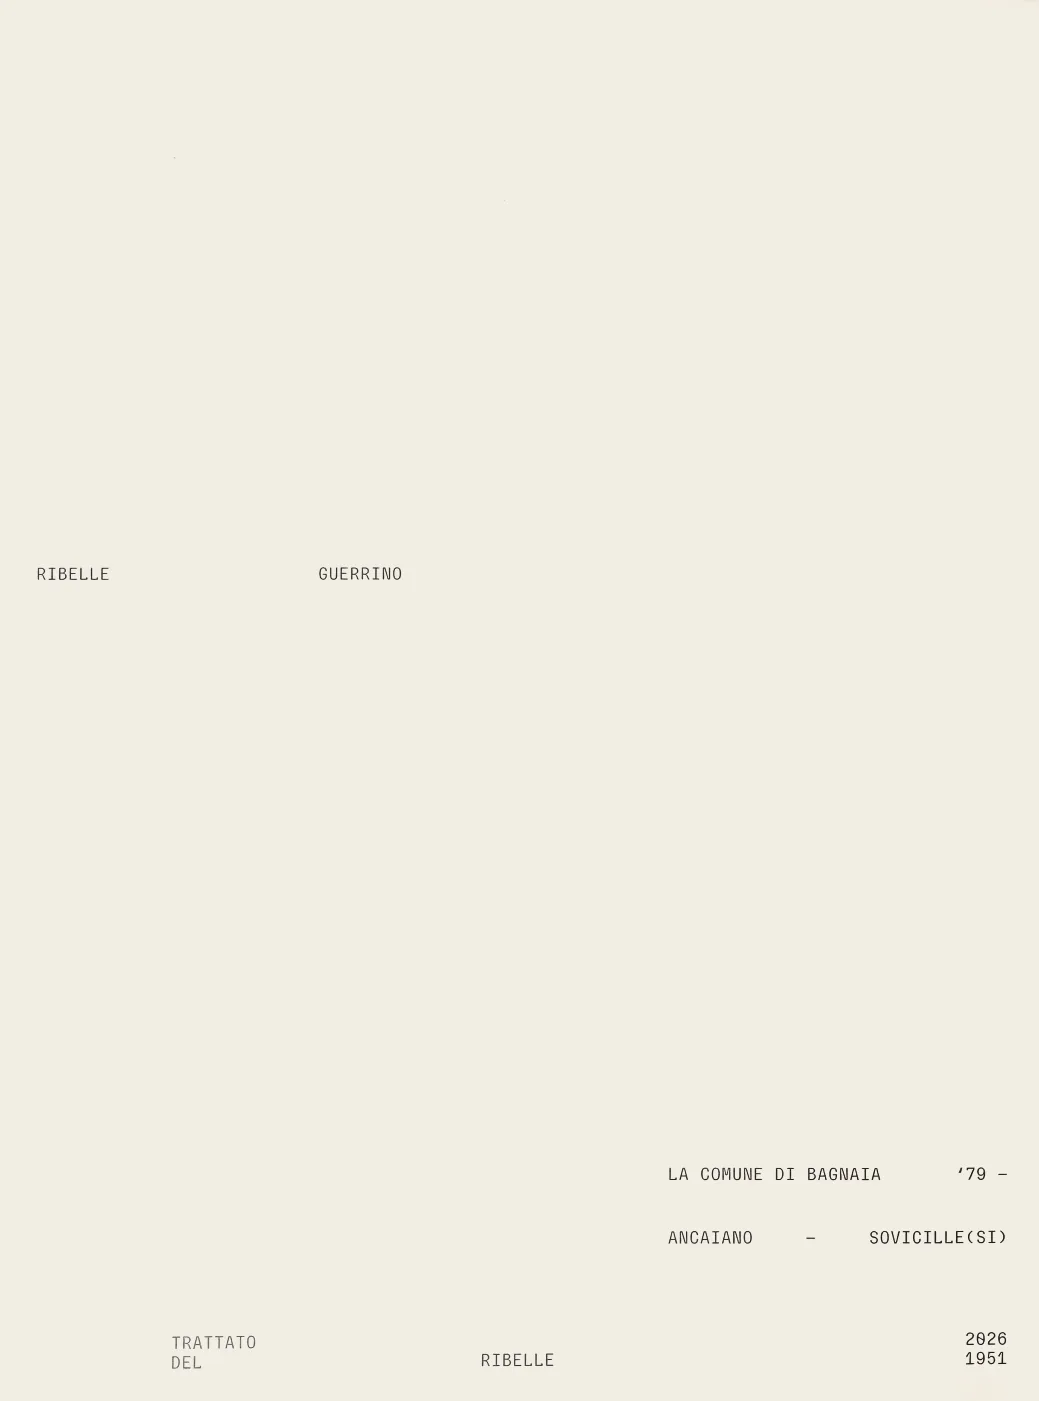
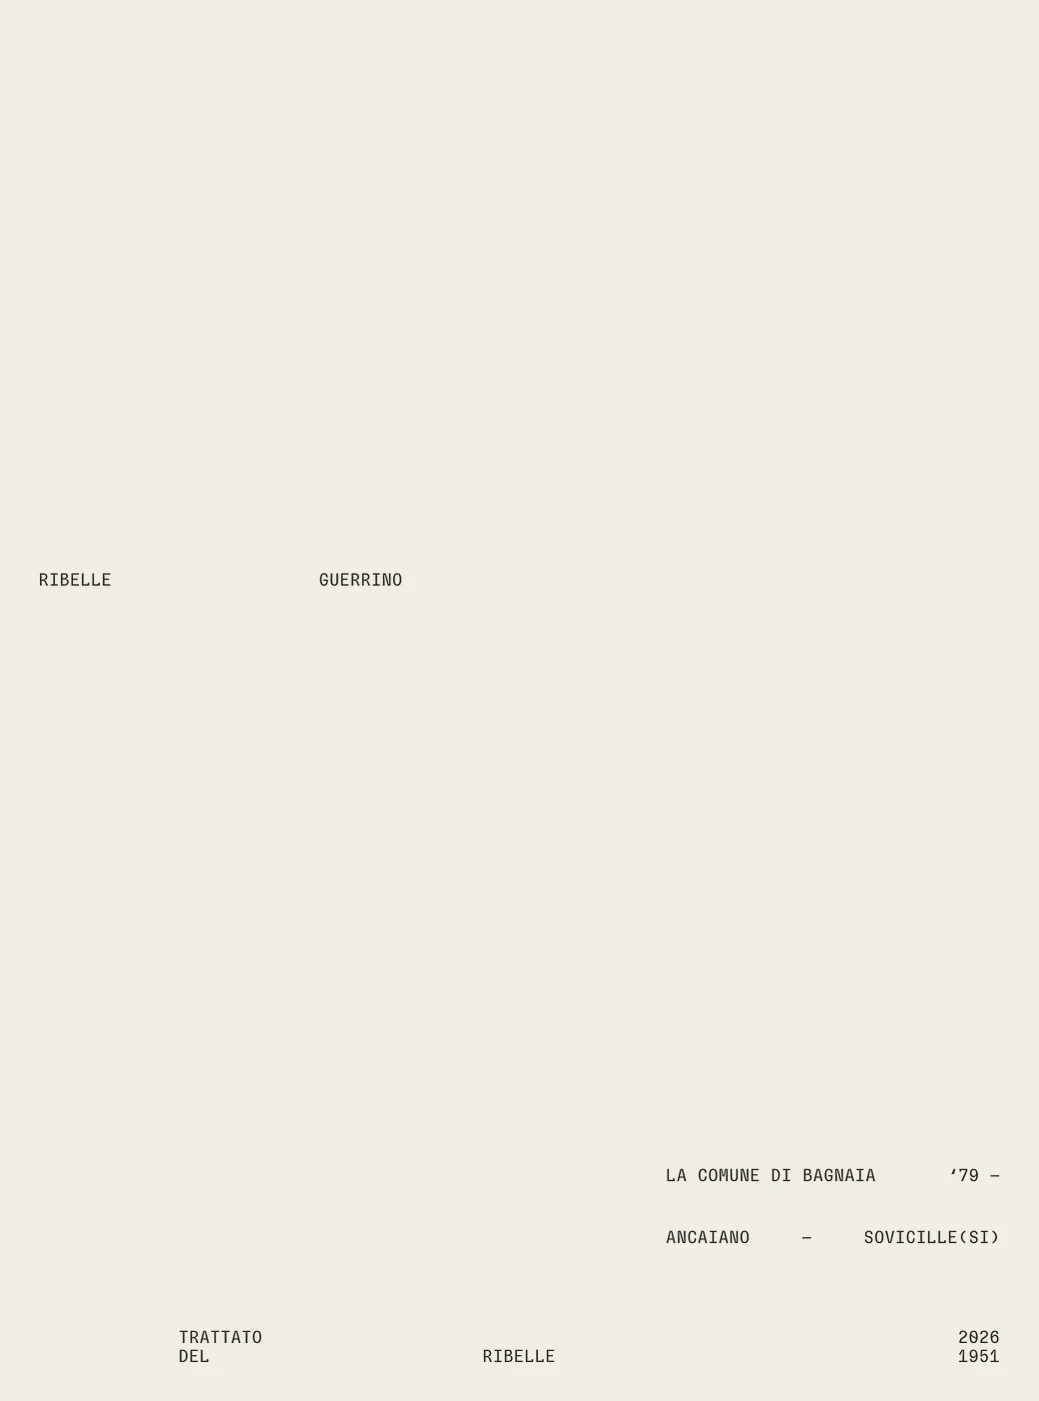
Trattato 3D: copertine dai PDF originali, catalogo con copertina avvolgente e cucitura in piega, volumi più distanti, ombra della pagina continua
Claude-Session: https://claude.ai/code/session_01EApmSPsn6NNqRi4moP4oVx

diff --git a/js/libro3d.js b/js/libro3d.js
@@ -24,7 +24,7 @@
   sun.position.set(-2.2, 6, 3.2); sun.castShadow = true;
   sun.shadow.mapSize.set(2048, 2048);
   var sc = sun.shadow.camera; sc.left = -6; sc.right = 6; sc.top = 6; sc.bottom = -6; sc.near = 1; sc.far = 16;
-  sun.shadow.bias = -0.0004; sun.shadow.radius = 6;
+  sun.shadow.bias = -0.0003; sun.shadow.normalBias = 0.004; sun.shadow.radius = 6;
   scene.add(sun);
   var fill = new T3.DirectionalLight(0xffffff, 0.12); fill.position.set(3, 2, -2); scene.add(fill);
   var ground = new T3.Mesh(new T3.PlaneGeometry(40, 40), new T3.ShadowMaterial({ opacity: 0.1, depthWrite: false }));
@@ -49,10 +49,10 @@
 
   /* ---------- un volume ---------- */
   function Book(cfg) {
-    var me = this;
+    var me = this, W = cfg.w || 2.30, H = cfg.h || 3.10;
     var NP = cfg.pages, NL = NP / 2 + 1, LEAF = cfg.leaf, COV = cfg.cov, BLOCK = (NL - 1) * LEAF, SIGS = cfg.sigs;
     var PAPER = lin(cfg.paper), EDGE = lin(cfg.edge), THREAD = lin(cfg.thread);
-    this.cfg = cfg; this.T = BLOCK + 2 * COV; this.NL = NL;
+    this.cfg = cfg; this.T = BLOCK + 2 * COV; this.NL = NL; this.W = W; this.H = H;
     this.root = new T3.Group(); this.pivot = new T3.Group(); this.geo = new T3.Group();
     this.root.add(this.pivot); this.pivot.add(this.geo);
     var book = this.geo;
@@ -136,6 +136,11 @@
     }
     (function () {
       var m = new T3.MeshLambertMaterial({ color: EDGE }), bands = [{ y: COV / 2 + 0.0004, r: COV / 2 + 0.0006 }], sh = BLOCK / SIGS;
+      if (cfg.wrap) {                                  // copertina avvolgente: da chiuso il dorso è la piega liscia della copertina
+        var cm = new T3.MeshLambertMaterial({ color: PAPER });
+        var tube = new T3.Mesh(halfTube((BLOCK + 2 * COV) / 2 + 0.0008, (BLOCK + 2 * COV) / 2), cm); tube.castShadow = true; spine.add(tube);
+        return;
+      }
       for (var s = 0; s < SIGS; s++) bands.push({ y: COV + sh * (s + 0.5), r: sh / 2 });
       bands.push({ y: COV + BLOCK + COV / 2 - 0.0004, r: COV / 2 + 0.0006 });
       bands.forEach(function (b) { var mm = new T3.Mesh(halfTube(b.r, b.y), m); mm.castShadow = true; spine.add(mm); });
@@ -146,6 +151,28 @@
         spine.add(new T3.Mesh(new T3.TubeGeometry(new T3.CatmullRomCurve3(pts), bands.length * 6, 0.0024, 6, false), tm));
       }
     })();
+    /* catalogo: con la copertina aperta, nella piega si vede il dorso cucito del blocco */
+    var sew = null;
+    if (cfg.wrap) {
+      var c = document.createElement('canvas'); c.width = 128; c.height = 1024;
+      var g2 = c.getContext('2d'), cw = 128 / SIGS;
+      for (var i = 0; i < SIGS; i++) {
+        var gr = g2.createLinearGradient(i * cw, 0, (i + 1) * cw, 0);
+        gr.addColorStop(0, '#d9d7d1'); gr.addColorStop(0.5, '#f7f6f2'); gr.addColorStop(1, '#cfccc5');
+        g2.fillStyle = gr; g2.fillRect(i * cw, 0, cw, 1024);
+      }
+      g2.strokeStyle = '#8f8b83'; g2.lineWidth = 2.2;
+      for (var k = 0; k < cfg.stations; k++) {
+        var y = 1024 * (0.06 + 0.88 * k / (cfg.stations - 1));
+        g2.beginPath();
+        for (var i2 = 0; i2 <= SIGS; i2++) { var x2 = i2 * cw, yy = y + (i2 % 2 ? 7 : -7); if (i2) g2.lineTo(x2, yy); else g2.moveTo(x2, yy); }
+        g2.stroke();
+        g2.fillStyle = '#a9a59d'; g2.fillRect(cw * 0.5 - 3, y - 9, 6, 18); g2.fillRect(128 - cw * 0.5 - 3, y - 9, 6, 18);
+      }
+      var st = new T3.CanvasTexture(c); st.encoding = T3.sRGBEncoding; st.anisotropy = maxAniso;
+      sew = new T3.Mesh(new T3.PlaneGeometry(0.075, H * 0.985), new T3.MeshLambertMaterial({ map: st }));
+      sew.rotation.x = -Math.PI / 2; sew.receiveShadow = true; sew.visible = false; book.add(sew);
+    }
 
     /* il foglio che gira */
     var SX = 46, SZ = 6, leafGeo = new T3.BufferGeometry();
@@ -160,7 +187,7 @@
     var lf = new T3.MeshLambertMaterial({ color: PAPER, vertexColors: true }), lb = new T3.MeshLambertMaterial({ color: PAPER, vertexColors: true, side: T3.BackSide });
     lf.shadowSide = lb.shadowSide = T3.DoubleSide;
     var leafFront = new T3.Mesh(leafGeo, lf), leafBack = new T3.Mesh(leafGeo, lb);
-    leafFront.receiveShadow = leafBack.receiveShadow = true;
+    leafFront.receiveShadow = leafBack.receiveShadow = true; leafFront.castShadow = leafBack.castShadow = true;
     var leafGroup = new T3.Group(); leafGroup.add(leafFront, leafBack); leafGroup.visible = false; book.add(leafGroup);
     function bendLeaf(theta, grabZ, stiff, hy) {
       var p = leafGeo.attributes.position.array, c = leafGeo.attributes.color.array;
@@ -185,7 +212,6 @@
       }
       leafGeo.attributes.position.needsUpdate = true; leafGeo.attributes.color.needsUpdate = true;
       leafGeo.computeVertexNormals(); leafGeo.computeBoundingSphere();
-      var cast = theta > 0.14 && theta < Math.PI - 0.14; leafFront.castShadow = leafBack.castShadow = cast;
     }
 
     /* stato */
@@ -200,6 +226,7 @@
       R.set(hr, rTop ? tex(rTop) : null, cfg.back ? tex(cfg.base + cfg.back, true) : null);
       Lft.set(hl, lTop ? tex(lTop) : null, null);
       spine.visible = !me.opened && L === 0 && !f;
+      if (sew) { var sl = f ? Math.min(L, f.leaf) : L; sew.visible = me.opened && sl === 1; sew.position.set(-0.0375 - 0.004, hl + 0.0011, 0); }
       if (f) {
         leafGroup.visible = true;
         var rt = rectoOf(f.leaf), vt = versoOf(f.leaf);
@@ -246,8 +273,8 @@
   }
 
   /* ---------- i due volumi ---------- */
-  var libro = new Book({ name: D.nameLibro, base: D.base, pages: 208, paper: '#f1ede3', edge: '#ebe6da', thread: '#bdb8ae', sigs: 13, stations: 11, leaf: 0.0011, cov: 0.0035, cover: 'cover.webp', back: 'cover-back.webp' });
-  var catalogo = new Book({ name: D.nameCat, base: D.cat, pages: 80, paper: '#f6f5f1', edge: '#f1f0ec', thread: '#bdb9b1', sigs: 5, stations: 9, leaf: 0.0013, cov: 0.004, cover: 'cover.webp', back: null });
+  var libro = new Book({ name: D.nameLibro, base: D.base, pages: 208, paper: '#f1ede3', edge: '#ebe6da', thread: '#bdb8ae', sigs: 13, stations: 11, leaf: 0.0011, cov: 0.0035, cover: 'cover.webp?v=2', back: 'cover-back.webp?v=2' });
+  var catalogo = new Book({ name: D.nameCat, base: D.cat, pages: 80, w: 2.425, h: 3.20, wrap: true, paper: '#f6f5f1', edge: '#f1f0ec', thread: '#bdb9b1', sigs: 5, stations: 7, leaf: 0.0013, cov: 0.0045, cover: 'cover.webp?v=2', back: 'cover-back.webp?v=2' });
   var books = [libro, catalogo];
   stackGroup.add(libro.root, catalogo.root);
 
@@ -261,13 +288,13 @@
   }
   function distFor(m) {
     if (m === 'stack') return camera.aspect < 1 ? fitDist(W * 2.1, H * 1.25) : fitDist(W * 1.5, H * 1.2);
-    if (m === 'apart') return camera.aspect < 1 ? fitDist(W * 1.9, H * 2.6) : fitDist(W * 3.3, H * 1.25);
+    if (m === 'apart') return camera.aspect < 1 ? fitDist(W * 2.0, H * 3.0) : fitDist(W * 4.1, H * 1.3);
     return fitDist(2 * W * 1.06, H * 1.3);
   }
   function elFor(m) { return m === 'read' ? 1.22 : (m === 'apart' ? 0.5 : 0.38); }
   function place() {
     var tb = libro.T, k = S.sep, r = S.read, side = camera.aspect < 1 ? 0 : 1;
-    var dx = W * 0.62 * side, dz = H * 0.62 * (1 - side);
+    var dx = W * 0.85 * side, dz = H * 0.78 * (1 - side);
     libro.root.position.set(-dx * k, 0, -dz * k);
     catalogo.root.position.set(0.12 * (1 - k) + dx * k, (tb + 0.0006) * (1 - k), -0.08 * (1 - k) + dz * k);
     catalogo.root.rotation.y = -0.07 * (1 - k);
@@ -346,9 +373,10 @@
     if (mode === 'apart' && !busy) drag.book = pickBook(e);
     if (mode === 'read' && !busy && active && !active.flip) {
       var p = planeHit(e), L = active.L();
-      if (p && Math.abs(p.z) < H / 2) {
-        if (p.x > W * 0.08 && L < active.NL) drag.leaf = { leaf: L, dir: 1, gz: p.z / (H / 2) };
-        else if (p.x < -W * 0.08 && L > 1) drag.leaf = { leaf: L - 1, dir: -1, gz: p.z / (H / 2) };
+      var aW = active.W, aH = active.H;
+      if (p && Math.abs(p.z) < aH / 2) {
+        if (p.x > aW * 0.08 && L < active.NL) drag.leaf = { leaf: L, dir: 1, gz: p.z / (aH / 2) };
+        else if (p.x < -aW * 0.08 && L > 1) drag.leaf = { leaf: L - 1, dir: -1, gz: p.z / (aH / 2) };
       }
     }
     cv.setPointerCapture(e.pointerId);
@@ -363,7 +391,7 @@
     } else if (mode === 'read' && drag.leaf && drag.moved > 6 && active) {
       if (!active.flip) active.flip = { leaf: drag.leaf.leaf, theta: drag.leaf.dir > 0 ? 0 : Math.PI, grabZ: drag.leaf.gz };
       var p = planeHit(e);
-      if (p && active.flip && !active.flip.anim) { active.flip.theta = Math.acos(Math.max(-1, Math.min(1, p.x / W))); active.flip.grabZ = drag.leaf.gz; active.layout(); }
+      if (p && active.flip && !active.flip.anim) { active.flip.theta = Math.acos(Math.max(-1, Math.min(1, p.x / active.W))); active.flip.grabZ = drag.leaf.gz; active.layout(); }
     }
     idle = performance.now(); dirty = true; drag.x = e.clientX; drag.y = e.clientY;
   });

diff --git a/en/trattato.html b/en/trattato.html
@@ -76,7 +76,7 @@
 </main>
 <footer class="rule bottom"><span>Portfolio 2026</span><span class="mid">Trattato del ribelle/Guerrino</span><span>Bartolomeo Lodi-Fè</span></footer>
 </div>
-<script src="https://cdnjs.cloudflare.com/ajax/libs/three.js/r128/three.min.js"></script><script src="../js/libro3d.js?v=10" defer></script><script src="../site.js?v=49"></script>
+<script src="https://cdnjs.cloudflare.com/ajax/libs/three.js/r128/three.min.js"></script><script src="../js/libro3d.js?v=11" defer></script><script src="../site.js?v=49"></script>
 <script data-goatcounter="https://bartolomeolodife.goatcounter.com/count" async src="https://gc.zgo.at/count.js"></script>
 </body>
 </html>

diff --git a/fr/trattato.html b/fr/trattato.html
@@ -76,7 +76,7 @@
 </main>
 <footer class="rule bottom"><span>Portfolio 2026</span><span class="mid">Trattato del ribelle/Guerrino</span><span>Bartolomeo Lodi-Fè</span></footer>
 </div>
-<script src="https://cdnjs.cloudflare.com/ajax/libs/three.js/r128/three.min.js"></script><script src="../js/libro3d.js?v=10" defer></script><script src="../site.js?v=49"></script>
+<script src="https://cdnjs.cloudflare.com/ajax/libs/three.js/r128/three.min.js"></script><script src="../js/libro3d.js?v=11" defer></script><script src="../site.js?v=49"></script>
 <script data-goatcounter="https://bartolomeolodife.goatcounter.com/count" async src="https://gc.zgo.at/count.js"></script>
 </body>
 </html>

diff --git a/trattato.html b/trattato.html
@@ -76,7 +76,7 @@
 </main>
 <footer class="rule bottom"><span>Portfolio 2026</span><span class="mid">Trattato del ribelle/Guerrino</span><span>Bartolomeo Lodi-Fè</span></footer>
 </div>
-<script src="https://cdnjs.cloudflare.com/ajax/libs/three.js/r128/three.min.js"></script><script src="js/libro3d.js?v=10" defer></script><script src="site.js?v=49"></script>
+<script src="https://cdnjs.cloudflare.com/ajax/libs/three.js/r128/three.min.js"></script><script src="js/libro3d.js?v=11" defer></script><script src="site.js?v=49"></script>
 <script data-goatcounter="https://bartolomeolodife.goatcounter.com/count" async src="https://gc.zgo.at/count.js"></script>
 </body>
 </html>
